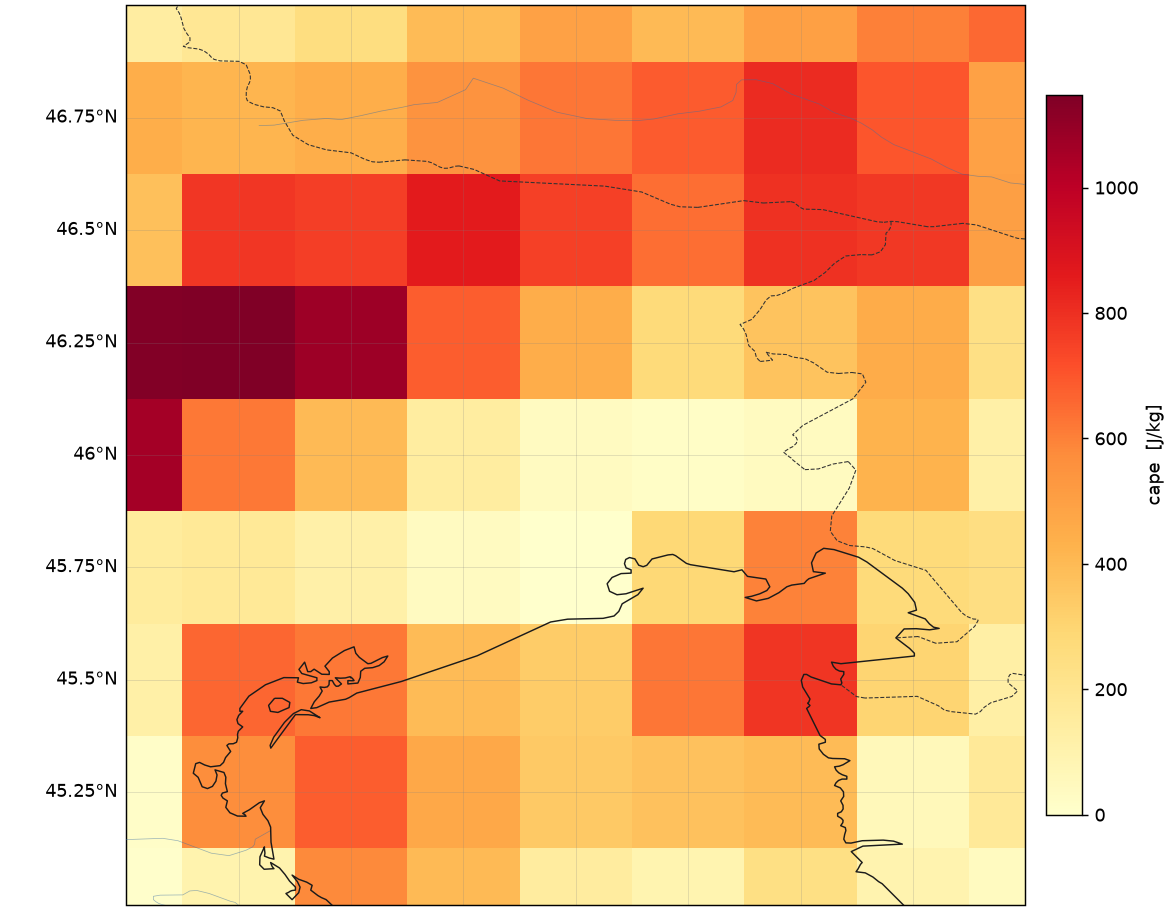
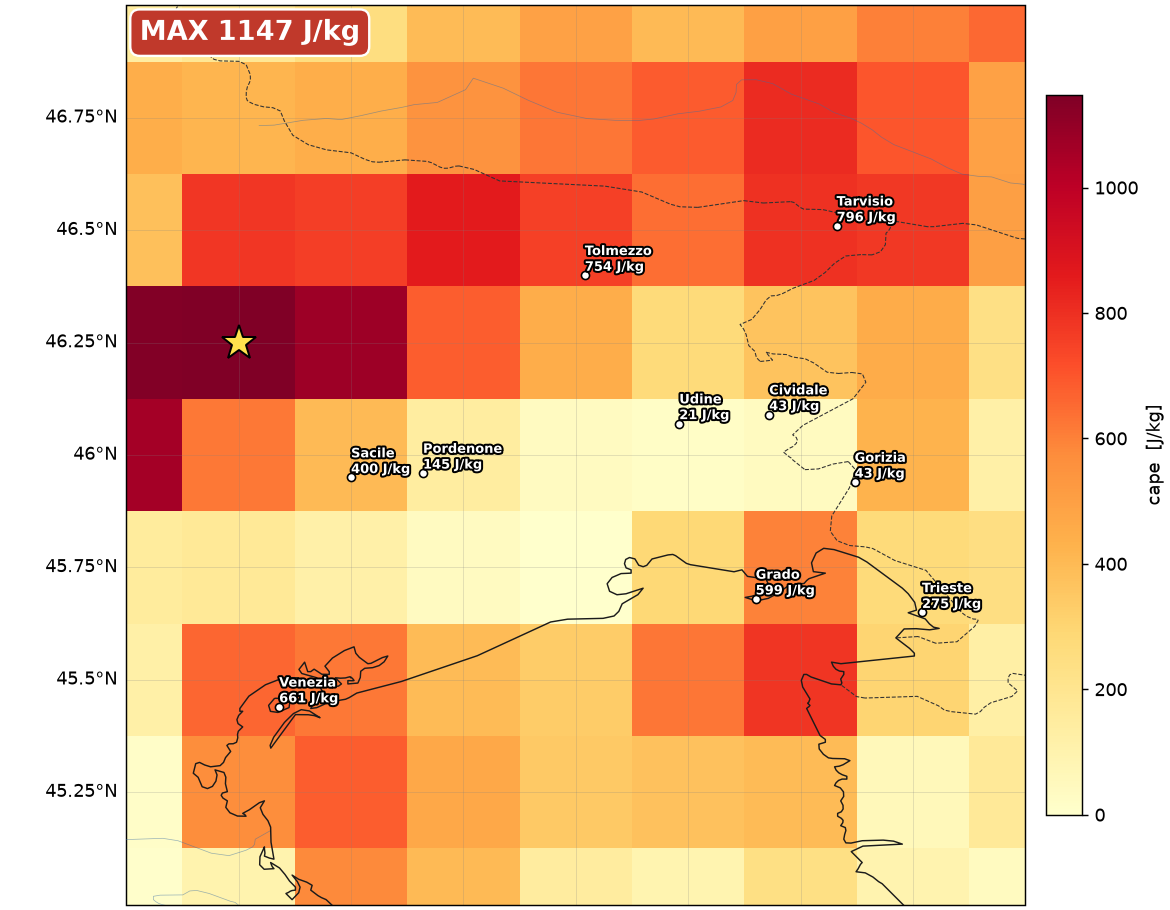
feat(MeteoGrib): citta FVG sulle mappe + badge del massimo
Su ogni mappa: punti delle citta (Udine, Trieste, Pordenone, Gorizia,
Tolmezzo, Tarvisio, Cividale, Grado, Sacile, e vicine Venezia/Klagenfurt/
Ljubljana) con il valore del campo campionato nel punto piu vicino; vengono
mostrate solo le citta dentro l'area della mappa.

Inoltre una stella gialla sul punto di massimo e un badge grande 'MAX <val>'
in alto a sinistra, cosi l'intensita salta subito all'occhio. Il badge e
attivo sui campi 'pieni' (CAPE, vento, shear, temperatura...), non sulle
isobare. Testo con contorno per leggibilita su qualsiasi colore.

Esempi aggiornati con la nuova resa.

Claude-Session: https://claude.ai/code/session_019DZ5QHcGJWWLZY7iWbL9et

diff --git a/Projects/coded/MeteoGrib/meteogrib.py b/Projects/coded/MeteoGrib/meteogrib.py
@@ -328,6 +328,77 @@ def _extent_of(m: "Message"):
         return None
 
 
+# Città del Friuli Venezia Giulia e dintorni (nome, lat, lon).  Vengono
+# disegnate solo quelle che ricadono dentro l'area della mappa.
+CITIES = [
+    ("Udine", 46.07, 13.23),
+    ("Trieste", 45.65, 13.77),
+    ("Pordenone", 45.96, 12.66),
+    ("Gorizia", 45.94, 13.62),
+    ("Tolmezzo", 46.40, 13.02),
+    ("Tarvisio", 46.51, 13.58),
+    ("Cividale", 46.09, 13.43),
+    ("Grado", 45.68, 13.40),
+    ("Sacile", 45.95, 12.50),
+    ("Venezia", 45.44, 12.34),
+    ("Klagenfurt", 46.62, 14.31),
+    ("Ljubljana", 46.06, 14.51),
+]
+
+
+def _text_stroke():
+    """Contorno nero attorno al testo bianco, per leggibilità su ogni colore."""
+    import matplotlib.patheffects as pe
+    return [pe.withStroke(linewidth=2.2, foreground="black")]
+
+
+def _nearest_value(lons, lats, field, lat, lon):
+    """Valore del campo nel punto di griglia più vicino a (lat, lon)."""
+    try:
+        d = (lats - lat) ** 2 + (lons - lon) ** 2
+        j, i = np.unravel_index(np.nanargmin(d), d.shape)
+        return float(field[j, i])
+    except Exception:
+        return float("nan")
+
+
+def _overlay_cities(ax, lons, lats, field, proj, unit, extent):
+    """Punti + nome città + valore del campo campionato nella città."""
+    if extent is None:
+        return
+    tk = {"transform": proj} if proj is not None else {}
+    lon0, lon1, lat0, lat1 = extent
+    stroke = _text_stroke()
+    for name, la, lo in CITIES:
+        if not (lon0 <= lo <= lon1 and lat0 <= la <= lat1):
+            continue
+        ax.plot(lo, la, marker="o", ms=4.5, mfc="white", mec="black",
+                mew=0.9, zorder=8, **tk)
+        val = _nearest_value(lons, lats, field, la, lo)
+        label = f"{name}\n{val:.0f} {unit}" if np.isfinite(val) else name
+        t = ax.text(lo, la, label, fontsize=7.2, fontweight="bold",
+                    color="white", ha="left", va="bottom", zorder=9,
+                    **({"transform": proj} if proj is not None else {}))
+        t.set_path_effects(stroke)
+
+
+def _annotate_max(ax, lons, lats, field, proj, unit):
+    """Stella sul massimo + badge grande, così l'intensità 'salta all'occhio'."""
+    try:
+        j, i = np.unravel_index(np.nanargmax(field), field.shape)
+        vmax = float(field[j, i])
+        la, lo = float(lats[j, i]), float(lons[j, i])
+    except Exception:
+        return
+    tk = {"transform": proj} if proj is not None else {}
+    ax.plot(lo, la, marker="*", ms=20, mfc="#ffe14d", mec="black",
+            mew=1.1, zorder=10, **tk)
+    ax.text(0.015, 0.985, f"MAX {vmax:.0f} {unit}", transform=ax.transAxes,
+            fontsize=15, fontweight="bold", va="top", ha="left", color="white",
+            zorder=11,
+            bbox=dict(boxstyle="round,pad=0.35", fc="#c0392b", ec="white", lw=1.3))
+
+
 def plot_message(m: Message, out: str, title_extra: str = ""):
     """Disegna un singolo campo scegliendo lo stile in base al contenuto."""
     plt = _import_mpl()
@@ -360,6 +431,11 @@ def plot_message(m: Message, out: str, title_extra: str = ""):
         f"{m.name}  ·  {m.level_label()}\n{when}   +{m.step}h{title_extra}",
         fontsize=11,
     )
+    unit = st["unit"] or m.units
+    ext = _extent_of(m)
+    _overlay_cities(ax, lons, lats, data, proj, unit, ext)
+    if st["kind"] != "contour":         # badge del massimo solo sui campi "pieni"
+        _annotate_max(ax, lons, lats, data, proj, unit)
     # Le figure usano layout="constrained": niente tight_layout né
     # bbox_inches, che con i GeoAxes di cartopy danno rispettivamente crash
     # del gridliner e ritaglio errato della mappa.
@@ -392,6 +468,9 @@ def plot_wind(mu: Message, mv: Message, out: str):
     vdt = mu.valid_datetime
     when = vdt.strftime("%Y-%m-%d %H:%M UTC") if vdt else mu.date
     ax.set_title(f"Vento a {mu.level_label()}\n{when}   +{mu.step}h", fontsize=11)
+    ext = _extent_of(mu)
+    _overlay_cities(ax, mu.lons, mu.lats, speed, proj, "m/s", ext)
+    _annotate_max(ax, mu.lons, mu.lats, speed, proj, "m/s")
     # Le figure usano layout="constrained": niente tight_layout né
     # bbox_inches, che con i GeoAxes di cartopy danno rispettivamente crash
     # del gridliner e ritaglio errato della mappa.
@@ -435,6 +514,9 @@ def plot_shear(hi: Message, hv: Message, lo: Message, lv: Message, out: str):
         f"Wind shear  {hi.level_label()} − {lo.level_label()}\n{when}   +{hi.step}h",
         fontsize=11,
     )
+    ext = _extent_of(hi)
+    _overlay_cities(ax, hi.lons, hi.lats, shear, proj, "m/s", ext)
+    _annotate_max(ax, hi.lons, hi.lats, shear, proj, "m/s")
     # Le figure usano layout="constrained": niente tight_layout né
     # bbox_inches, che con i GeoAxes di cartopy danno rispettivamente crash
     # del gridliner e ritaglio errato della mappa.
@@ -466,6 +548,9 @@ def plot_storm(cape: Message, du, dv, out: str):
     when = vdt.strftime("%Y-%m-%d %H:%M UTC") if vdt else cape.date
     ax.set_title(f"Ingredienti temporali: CAPE + shear\n{when}   +{cape.step}h",
                  fontsize=11)
+    ext = _extent_of(cape)
+    _overlay_cities(ax, cape.lons, cape.lats, cape.values, proj, "J/kg", ext)
+    _annotate_max(ax, cape.lons, cape.lats, cape.values, proj, "J/kg")
     # Le figure usano layout="constrained": niente tight_layout né
     # bbox_inches, che con i GeoAxes di cartopy danno rispettivamente crash
     # del gridliner e ritaglio errato della mappa.
